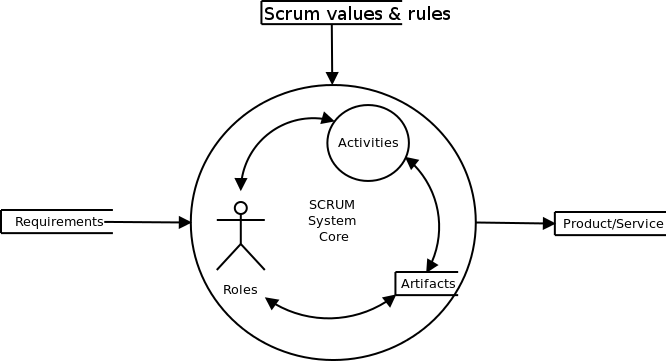
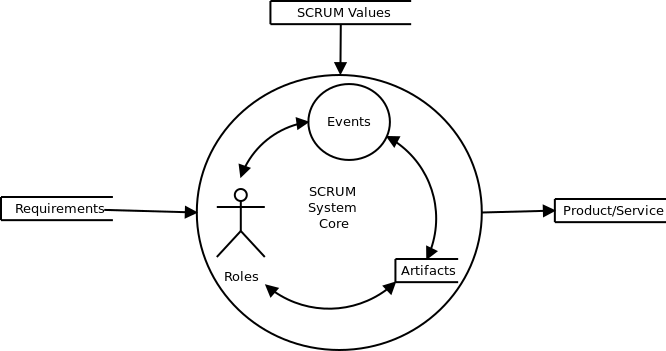
Update and build 13 oct. 2019

Changed region(s): [[0.0, 0.0, 1.0, 1.0], [0.3303, 0.2849, 0.3904, 0.3989], [0.3904, 0.9402, 0.4204, 0.9687]]

diff --git a/content/scrum_system.tex b/content/scrum_system.tex
@@ -2,7 +2,7 @@
 
 \chapter{Núcleo del sistema Scrum}
 
-Scrum es un sistema compuesto por principios y valores Scrum (el enfoque), como parte del sistema cultural, y tres conjuntos de componentes interrelacionados que forman el "Núcleo del Sistema Scrum"\footnote{El núcleo de Scrum es determinado esencialmente por los organismos y autores que mantienen el scrum originario, o sea los autores (Ken y Jeff) y scrum.org mediante el libro Scrum Guide 2013\cite{Ken-Jeff-2013}.} (ver figura \ref{fig:ScrumSystemCore}). Los tres conjuntos de componentes son: roles, actividades y artefactos. Los roles conforman un sistema de roles que determina las responsabilidades de los actores integrantes, sus relaciones recíprocas, sus restricciones y la relación con los demás componentes. Las actividades conforman la parte principal del sistema de procesos Scrum (Proceso Scrum) que determina las relaciones de organización entre actividades, roles y artefactos. Y los artefactos conforman el conjunto de almacenes o componentes de trabajo. Todo el sistema busca asegurar una cadencia de trabajo que consta de una regularidad basada en iteraciones de tiempo fijo y ceremonias o actividades regulares que permiten la repetibilidad rítmica (predictibilidad del flujo de trabajo) bajo un grado de prestancia.
+Scrum es un sistema compuesto por principios y valores Scrum (el enfoque), como parte del sistema cultural, y tres conjuntos de componentes interrelacionados que forman el "Núcleo del Sistema Scrum"\footnote{El núcleo de Scrum es determinado esencialmente por los organismos y autores que mantienen el scrum originario, o sea los autores (Ken y Jeff) y scrum.org mediante el libro Scrum Guide 2013\cite{Ken-Jeff-2013}.} (ver figura \ref{fig:ScrumSystemCore}). Los tres conjuntos de componentes son: roles, eventos y artefactos. Los roles conforman un sistema de roles que determina las responsabilidades de los actores integrantes, sus relaciones recíprocas, sus restricciones y la relación con los demás componentes. Los eventos o actividades conforman la parte principal del sistema de procesos Scrum (Proceso Scrum) que determina las relaciones de organización entre eventos, roles y artefactos. Y los artefactos conforman el conjunto de almacenes o componentes de trabajo. Todo el sistema busca asegurar una cadencia de trabajo que consta de una regularidad basada en iteraciones de tiempo fijo y ceremonias o actividades regulares que permiten la repetibilidad rítmica (predictibilidad del flujo de trabajo) bajo un grado de prestancia.
 
 \newpage
 A continuación se describirán estos componentes y sus relaciones.
@@ -23,7 +23,7 @@ Scrum está pensado como un sistema de trabajo para equipos con tres roles princ
 
 Cuando los integrantes del sistema Scrum ejercen los roles mencionados en un flujo de trabajo o proceso Scrum, trabajan sobre tres artefactos esenciales: el Product Backlog (lo que queda por hacer), el Sprint Backlog (lo que se va a hacer en la iteración) y el Incremento de Producto potencialmente entregable (lo que logramos hacer y que se puede entregar). Estos artefactos son tratados en un flujo de trabajo en el cual se construyen productos en forma incremental y evolutiva, en una serie de ciclos cortos de tiempo llamados Sprints. 
 
-En cada ciclo Sprint del flujo de trabajo, se practican seis actividades Scrum: refinamiento de producto, planificación, reunión diaria o Daily, desarrollo (construcción), revisión de producto y retrospectiva. La actividad de refinamiento de producto (Refinement) no suele tener un nombre unificado; pues, se la suele llamar "Backlog Grooming"\footnote{No se aconseja usar el término Grooming debido a que según el diccionario Oxford English Dictionary tiene connotaciones sexuales.} (aunque no se aconseja usar la palabra grooming), Manteniemiento de Backlog o Refinamiento (Refinement). Salvo el desarrollo, las actividades se consideran reuniones o ceremonias Scrum. El desarrollo o ejecución no es una reunión Scrum ya que constituye la actividad de producción del producto o servicio. O sea que es donde se produce el incremento de producto.
+En cada ciclo Sprint del flujo de trabajo, se practican seis eventos Scrum: refinamiento de producto, planificación, reunión diaria o Daily, desarrollo (construcción), revisión de producto y retrospectiva. La actividad de refinamiento de producto (Refinement) no suele tener un nombre unificado; pues, se la suele llamar "Backlog Grooming"\footnote{No se aconseja usar el término Grooming debido a que según el diccionario Oxford English Dictionary tiene connotaciones sexuales.} (aunque no se aconseja usar la palabra grooming), Manteniemiento de Backlog o Refinamiento (Refinement). Salvo el desarrollo, los eventos se consideran actividades, reuniones o ceremonias Scrum. El desarrollo o ejecución no es una reunión Scrum ya que constituye la actividad de producción del producto o servicio. O sea que es donde se produce el incremento de producto.
 
 La síntesis del flujo de Scrum es como el mostrado en la figura siguiente:
 
@@ -173,7 +173,7 @@ Se puede ver un resumen del foco de las responsabilidades de los roles en la fig
 
 \section{Proceso Scrum}
 
-En el proceso Scrum o sistema de flujo de actividades Scrum (ver figura \ref{fig:ScrumFlow}) los miembros del equipo Scrum colaboran para crear una serie de Incrementos de Producto durante iteraciones de intervalos fijos de tiempo denominados Sprints. En cada iteración Sprint, se comienza por una Planificación del Sprint para producir un Backlog del Sprint a partir del Backlog de Producto, es decir un plan para el Sprint. El equipo se auto-organiza para realizar el Desarrollo, mediante reuniones Diarias de Scrum para coordinar y asegurarse de estar produciendo el mejor Incremento de Producto posible en el proceso de desarrollo del producto o servicio. Cada incremento satisface el criterio de aceptación del Product Owner y la Definición de Hecho o "Definition of Done" compartida por el equipo para satisfacer el criterio de tarea terminada. Junto al proceso de desarrollo se hace también un Refinamiento del Backlog ("Refinement") para prepararse para la reunión de planificación del próximo Sprint. Finalizando cada ciclo se termina el Sprint con una reunión de Revisión del Sprint y luego una reunión Retrospectiva del Sprint, revisando el producto y su proceso con una perspectiva crítica y de mejora contínua. 
+En el proceso Scrum o sistema de flujo de e Scrum (ver figura \ref{fig:ScrumFlow}) los miembros del equipo Scrum colaboran para crear una serie de Incrementos de Producto durante iteraciones de intervalos fijos de tiempo denominados Sprints. En cada iteración Sprint, se comienza por una Planificación del Sprint para producir un Backlog del Sprint a partir del Backlog de Producto, es decir un plan para el Sprint. El equipo se auto-organiza para realizar el Desarrollo, mediante reuniones Diarias de Scrum para coordinar y asegurarse de estar produciendo el mejor Incremento de Producto posible en el proceso de desarrollo del producto o servicio. Cada incremento satisface el criterio de aceptación del Product Owner y la Definición de Hecho o "Definition of Done" compartida por el equipo para satisfacer el criterio de tarea terminada. Junto al proceso de desarrollo se hace también un Refinamiento del Backlog ("Refinement") para prepararse para la reunión de planificación del próximo Sprint. Finalizando cada ciclo se termina el Sprint con una reunión de Revisión del Sprint y luego una reunión Retrospectiva del Sprint, revisando el producto y su proceso con una perspectiva crítica y de mejora contínua. 
 
 \begin{figure}[h]
   \centering
@@ -216,7 +216,7 @@ El resultado de este proceso es un conjunto de PBIs estimados y comprometidos in
 
 \end{itemize}
 
-\item \textbf{Scrum Diario:} la Daily Scrum o Stand-up meeting es una actividad o una reunión diaria obligatoria del Equipo Scrum, en el lugar de trabajo, con una duración fija, que sirve para coordinación y organización mediante una retroalimentación del estado de actividades de cada integrante del Equipo. Permite identificar impedimentos bloqueantes, actualizar artefactos, revisar el Sprint Backlog, ayudar a disminuir riesgos e identificar personas que pueden servir de ayuda a determinadas tareas. En esta reunión los miembros del equipo se reúnen, de pie, para informar de sus progresos en el Sprint y planificar las actividades del día. Para ello proporcionan respuestas a tres preguntas:
+\item \textbf{Scrum Diario:} la Daily Scrum o Stand-up meeting es un evento o una reunión diaria obligatoria del Equipo Scrum, en el lugar de trabajo, con una duración fija, que sirve para coordinación y organización mediante una retroalimentación del estado de actividades de cada integrante del Equipo. Permite identificar impedimentos bloqueantes, actualizar artefactos, revisar el Sprint Backlog, ayudar a disminuir riesgos e identificar personas que pueden servir de ayuda a determinadas tareas. En esta reunión los miembros del equipo se reúnen, de pie, para informar de sus progresos en el Sprint y planificar las actividades del día. Para ello proporcionan respuestas a tres preguntas:
 
 \begin{figure}[h]
   \centering
@@ -251,7 +251,7 @@ En la reunión que se hace con el equipo se desarrollan las siguientes actividad
   \item{Priorización.}
   \end{itemize}
 
-\item \textbf{Revisión:} es una actividad o una conversación de duración fija al final de cada Sprint para dar retroalimentación sobre el avance del producto. En esta reunión se evalúa el incremento funcional potencialmente entregable construido por el Equipo en el proceso de desarrollo. Para lograr hacer esto el Equipo de Desarrollo junto al PO y los Stakeholder involucrados, revisan los resultados funcionales y operativos (producto utilizable) del Sprint. El objetivo es recibir una retroalimentación de lo construido y aprobar o rechazar los PBIs que pasaron la DoD y son potencialmente entregables, para lo que los Stakeholder prueban el producto construido y proveen su feedback. En este proceso pueden haber cambios o nuevas hipótesis de requisitos que surjan para agregarse en el Product Backlog.
+\item \textbf{Revisión:} es un evento, actividad o conversación, de duración fija al final de cada Sprint para dar retroalimentación sobre el avance del producto. En esta reunión se evalúa el incremento funcional potencialmente entregable construido por el Equipo en el proceso de desarrollo. Para lograr hacer esto el Equipo de Desarrollo junto al PO y los Stakeholder involucrados, revisan los resultados funcionales y operativos (producto utilizable) del Sprint. El objetivo es recibir una retroalimentación de lo construido y aprobar o rechazar los PBIs que pasaron la DoD y son potencialmente entregables, para lo que los Stakeholder prueban el producto construido y proveen su feedback. En este proceso pueden haber cambios o nuevas hipótesis de requisitos que surjan para agregarse en el Product Backlog.
 
 \begin{figure}[h]
   \centering

diff --git a/content/philosophy.tex b/content/philosophy.tex
@@ -1,6 +1,6 @@
 \chapter{Enfoque Scrum}
 
-Discriminando todas las filosofías generales, como ideologías y concepciones religiosas, podemos decir que hay perspectivas filosóficas o enfoques relacionados, específicamente, al desarrollo de sistemas y de software. Pues, si bien ocurre que ideologías políticas influyen en los desarrolladores, líderes y arquitectos hay ideas más a fines del ámbito de desarrollo de sistemas, ideas que podemos decir que conforman filosofías influenciadoras. Estas influencias son notorias cuando vemos que se toma una decisión de usar una determinada metodología que implementa algunos principios o se siguen determinados principios sin datos empíricos que sostienen su uso ni explicaciones racionales soportadas con evidencia. A veces dichos principios son como sacados de la galera o reflejan expresión de deseos. Tal como sucede cuando se aplican determinadas tecnologías o metodologías como si se tratasen de una moda o de algo aparentemente arbitrario. También esto se puede apreciar cuando escuchamos decir en una reunión de trabajo en equipo que se premiará al individuo que sobresale (filosofía individualista), que “el éxito del grupo está por encima del individual” (perspectiva Ubuntu o cooperativa), escuchamos en una reunión técnica que “el software debe ser libre” (perspectiva Free Software) o que solo se desarrollara software propietario, que “las mejores arquitecturas, requisitos y diseños emergen de equipos autoorganizados” \cite{Beck-2001} (perspectiva ágil); o que “el software es un mundo de objetos” (perspectiva del Paradigma Orientado a Objetos). Las consignas o lemas organizacionales, los mantras personales o institucionales, las visiones empresariales y lineamientos institucionales también son, en muchos casos, una expresión de filosofías que condicionan a las personas y al desarrollo de software. Por ejemplo, en particular, se da con las filosofías del pensamiento sistémico, pensamiento crítico, filosofía ágil, software libre, software abierto o software propietario, que son las principales que en el mundo del desarrollo de software influencian a sus actores. Estas perspectivas filosóficas suelen presentar principios a seguir y estos principio guían algunas metodologías (prácticas y métodos) de desarrollo de sistemas y a gran parte de desarrolladores de sistemas. Aquí nos vamos a centrar en las perspectivas Scrum y Ágil.
+Discriminando todas las filosofías generales, como ideologías y concepciones religiosas, podemos decir que hay perspectivas filosóficas o enfoques relacionados, específicamente, al desarrollo de sistemas y de software. Pues, si bien ocurre que ideologías políticas influyen en los desarrolladores, líderes y arquitectos hay ideas más a fines del ámbito de desarrollo de sistemas, ideas que podemos decir que conforman filosofías influenciadoras. Estas influencias son notorias cuando vemos que se toma una decisión de usar una determinada metodología que implementa algunos principios o se siguen determinados principios sin datos empíricos que sostienen su uso ni explicaciones racionales soportadas con evidencia. A veces dichos principios son como sacados de la galera o reflejan expresión de deseos. Tal como sucede cuando se aplican determinadas tecnologías o metodologías como si se tratasen de una moda o de algo aparentemente arbitrario. También esto se puede apreciar cuando escuchamos decir en una reunión de trabajo en equipo que se premiará al individuo que sobresale (filosofía individualista), que “el éxito del grupo está por encima del individual” (perspectiva Ubuntu o cooperativa), escuchamos en una reunión técnica que “el software debe ser libre” (perspectiva Free Software) o que solo se desarrollara software propietario, que “las mejores arquitecturas, requisitos y diseños emergen de equipos autoorganizados” \cite{Beck-2001} (perspectiva ágil); o que “el software es un mundo de objetos” (perspectiva del Paradigma Orientado a Objetos). Las consignas o lemas organizacionales, los mantras personales o institucionales, las visiones empresariales y lineamientos institucionales también son, en muchos casos, una expresión de filosofías o enfoques que condicionan a las personas y al desarrollo de software. Por ejemplo, en particular, se da con las filosofías del pensamiento sistémico, pensamiento crítico, enfoque ágil, software libre, software abierto o software propietario, que son las principales que en el mundo del desarrollo de software influencian a sus actores. Estas perspectivas filosóficas suelen presentar principios a seguir y estos principio guían algunas metodologías (prácticas y métodos) de desarrollo de sistemas y a gran parte de desarrolladores de sistemas. Aquí nos vamos a centrar en las perspectivas Scrum y Ágil.
 
 \section{Mentalidad y modelos mentales}
 

diff --git a/content/introduction.tex b/content/introduction.tex
@@ -15,7 +15,7 @@ Hay quienes consideran que Scrum no es una metodología, entre otras cosas porqu
 sino que dice el qué hacer. Sin embargo, hay autores y guías que tratan a Scrum como metodología (por ejemplo la guía SBOK \footnote{\cite{SBOK-2013}, SCRUMstudy (2015).}, la ScrumAlliance \footnote{"Scrum is the leading agile development methodology", Learn About Scrum, Scrumalliance.org, 2015.} y Jeff Sutherland\footnote{\cite{Jeff-Sutherland-2016}}). De hecho en el informe original de Ken Schwaber se habla de metodología \cite{Ken-Schwaber-1995}. En consecuencia, se puede encontrar en numerosa bibliografía que el marco de trabajo Scrum puede ser denominado Metodología de Desarrollo Scrum o Metodología de Gestión de Proyectos Scrum. 
 En el primer caso puede deberse a que se puede considerar una metodología como un proceso de desarrollo iterativo e incremental de productos \cite{Ken-Schwaber-1995}. Y en el segundo caso porque se puede considerar que es una alternativa a la gestión clásica de proyectos propuesta en marcos de trabajo como la guía de Gestión de Proyectos PMI. En este último sentido podemos recordar la definición original de Ken Schwaber: "Scrum es una metodología de gestión, mejora y mantenimiento de un sistema existente o prototipo de producción" \cite{Ken-Schwaber-1995}.
  
-Por otro lado, considerando que Scrum define roles, artefactos, actividades, flujo del ciclo de actividades Scrum\footnote{\cite{Agile-Atlas-2012}}, reglas y algunas sugerencias de implementación como, además, al definir el flujo del ciclo de Scrum o flujo de trabajo, define parcialmente un cómo, en el cual se incluye una secuencia básica de cosas que hacer; por eso, y sin ser puristas, se puede considerar en forma práctica como una forma de metodología de trabajo y de gestión. O sea que puede funcionar como una metodología a alto nivel o plataforma de trabajo sobre la cual pueden funcionar otras metodologías, más específicas de producción y desarrollo, y otras técnicas y procesos. Por este motivo, puede ser adaptado a diversas empresas y organizaciones que trabajen con metodologías diferentes pero compatibles con los lineamientos de Scrum (sus valores y principios) y del Movimiento Ágil (filosofía ágil). Se puede usar Scrum y a su vez utilizar técnicas de otras metodologías para implementar sus actividades y sugerencias. O sea que cuando se usa este marco se hace una aproximación empleando diversas técnicas y, posiblemente, otras metodologías. Por eso, es recomendable que se lo denomine "marco de trabajo".
+Por otro lado, considerando que Scrum define roles, artefactos, actividades, flujo del ciclo de actividades Scrum\footnote{\cite{Agile-Atlas-2012}}, reglas y algunas sugerencias de implementación como, además, al definir el flujo del ciclo de Scrum o flujo de trabajo, define parcialmente un cómo, en el cual se incluye una secuencia básica de cosas que hacer; por eso, y sin ser puristas, se puede considerar en forma práctica como una forma de metodología de trabajo y de gestión. O sea que puede funcionar como una metodología a alto nivel o plataforma de trabajo sobre la cual pueden funcionar otras metodologías, más específicas de producción y desarrollo, y otras técnicas y procesos. Por este motivo, puede ser adaptado a diversas empresas y organizaciones que trabajen con metodologías diferentes pero compatibles con los lineamientos de Scrum (sus valores y principios) y del Movimiento Ágil (enfoque ágil). Se puede usar Scrum y a su vez utilizar técnicas de otras metodologías para implementar sus actividades y sugerencias. O sea que cuando se usa este marco se hace una aproximación empleando diversas técnicas y, posiblemente, otras metodologías. Por eso, es recomendable que se lo denomine "marco de trabajo".
 
 \subsection{Ámbito de aplicación}
 

diff --git a/content/origin.tex b/content/origin.tex
@@ -19,7 +19,7 @@ Hay otras organizaciones capacitadoras y certificadoras que no pertenecen al nú
 
 \section{Origen causal}
 
-Scrum tuvo un origen causal que suele constituir el análisis crítico previo a su explicación. Scrum emerge del intento de resolver un problema y de la crítica a las consideradas causas del mismo. Scrum vino a surgir como una alternativa al modo en que se desarrollaba software y lo hizo como posible solución a los problemas que presentaba la situación en ese entonces (década del 90) de Desarrollo de Software. Por esa razón es que, por lo general, cuando se habla de Scrum se hace un análisis crítico previo para plantear un cambio debido a un problema. Por un lado, se plantea un cambio paradigmático o filosófico que consiste en un cambio de perspectiva y de mentalidad (mindset). La otra cuestión fundamental es la metodológica en la cual se propone un cambio del proceso de desarrollo de software o proceso industrial de software. Por este motivo, para comenzar a comprender Scrum, hay que comprender cuál es el problema que viene a intentar resolver y qué es lo que se critica.
+Scrum tuvo un origen causal que suele constituir el análisis crítico previo a su explicación. Scrum emerge del intento de resolver un problema y de la crítica a las consideradas causas del mismo. Scrum vino a surgir como una alternativa al modo en que se desarrollaba software y lo hizo como posible solución a los problemas que presentaba la situación en ese entonces (década del 90) de Desarrollo de Software. Por esa razón es que, por lo general, cuando se habla de Scrum se hace un análisis crítico previo para plantear un cambio debido a un problema. Por un lado, se plantea un cambio paradigmático o de enfoque que consiste en un cambio de perspectiva y de mentalidad (mindset). La otra cuestión fundamental es la metodológica en la cual se propone un cambio del proceso de desarrollo de software o proceso industrial de software. Por este motivo, para comenzar a comprender Scrum, hay que comprender cuál es el problema que viene a intentar resolver y qué es lo que se critica.
 
 \subsection{Problema}
 

diff --git a/content/second_page.tex b/content/second_page.tex
@@ -34,7 +34,7 @@
 
 % Version of Build or PDF version
 Primera edición, versión 1.0.0, 2015, Córdoba, Argentina.
-Segunda edición, versión 3.9.1, 31 de Marzo de 2019, Santiago de Chile.
+Segunda edición, versión 3.9.2, 13 de Octubre de 2019, Santiago de Chile.
 
 % License text message
 \input{content/license_message}
